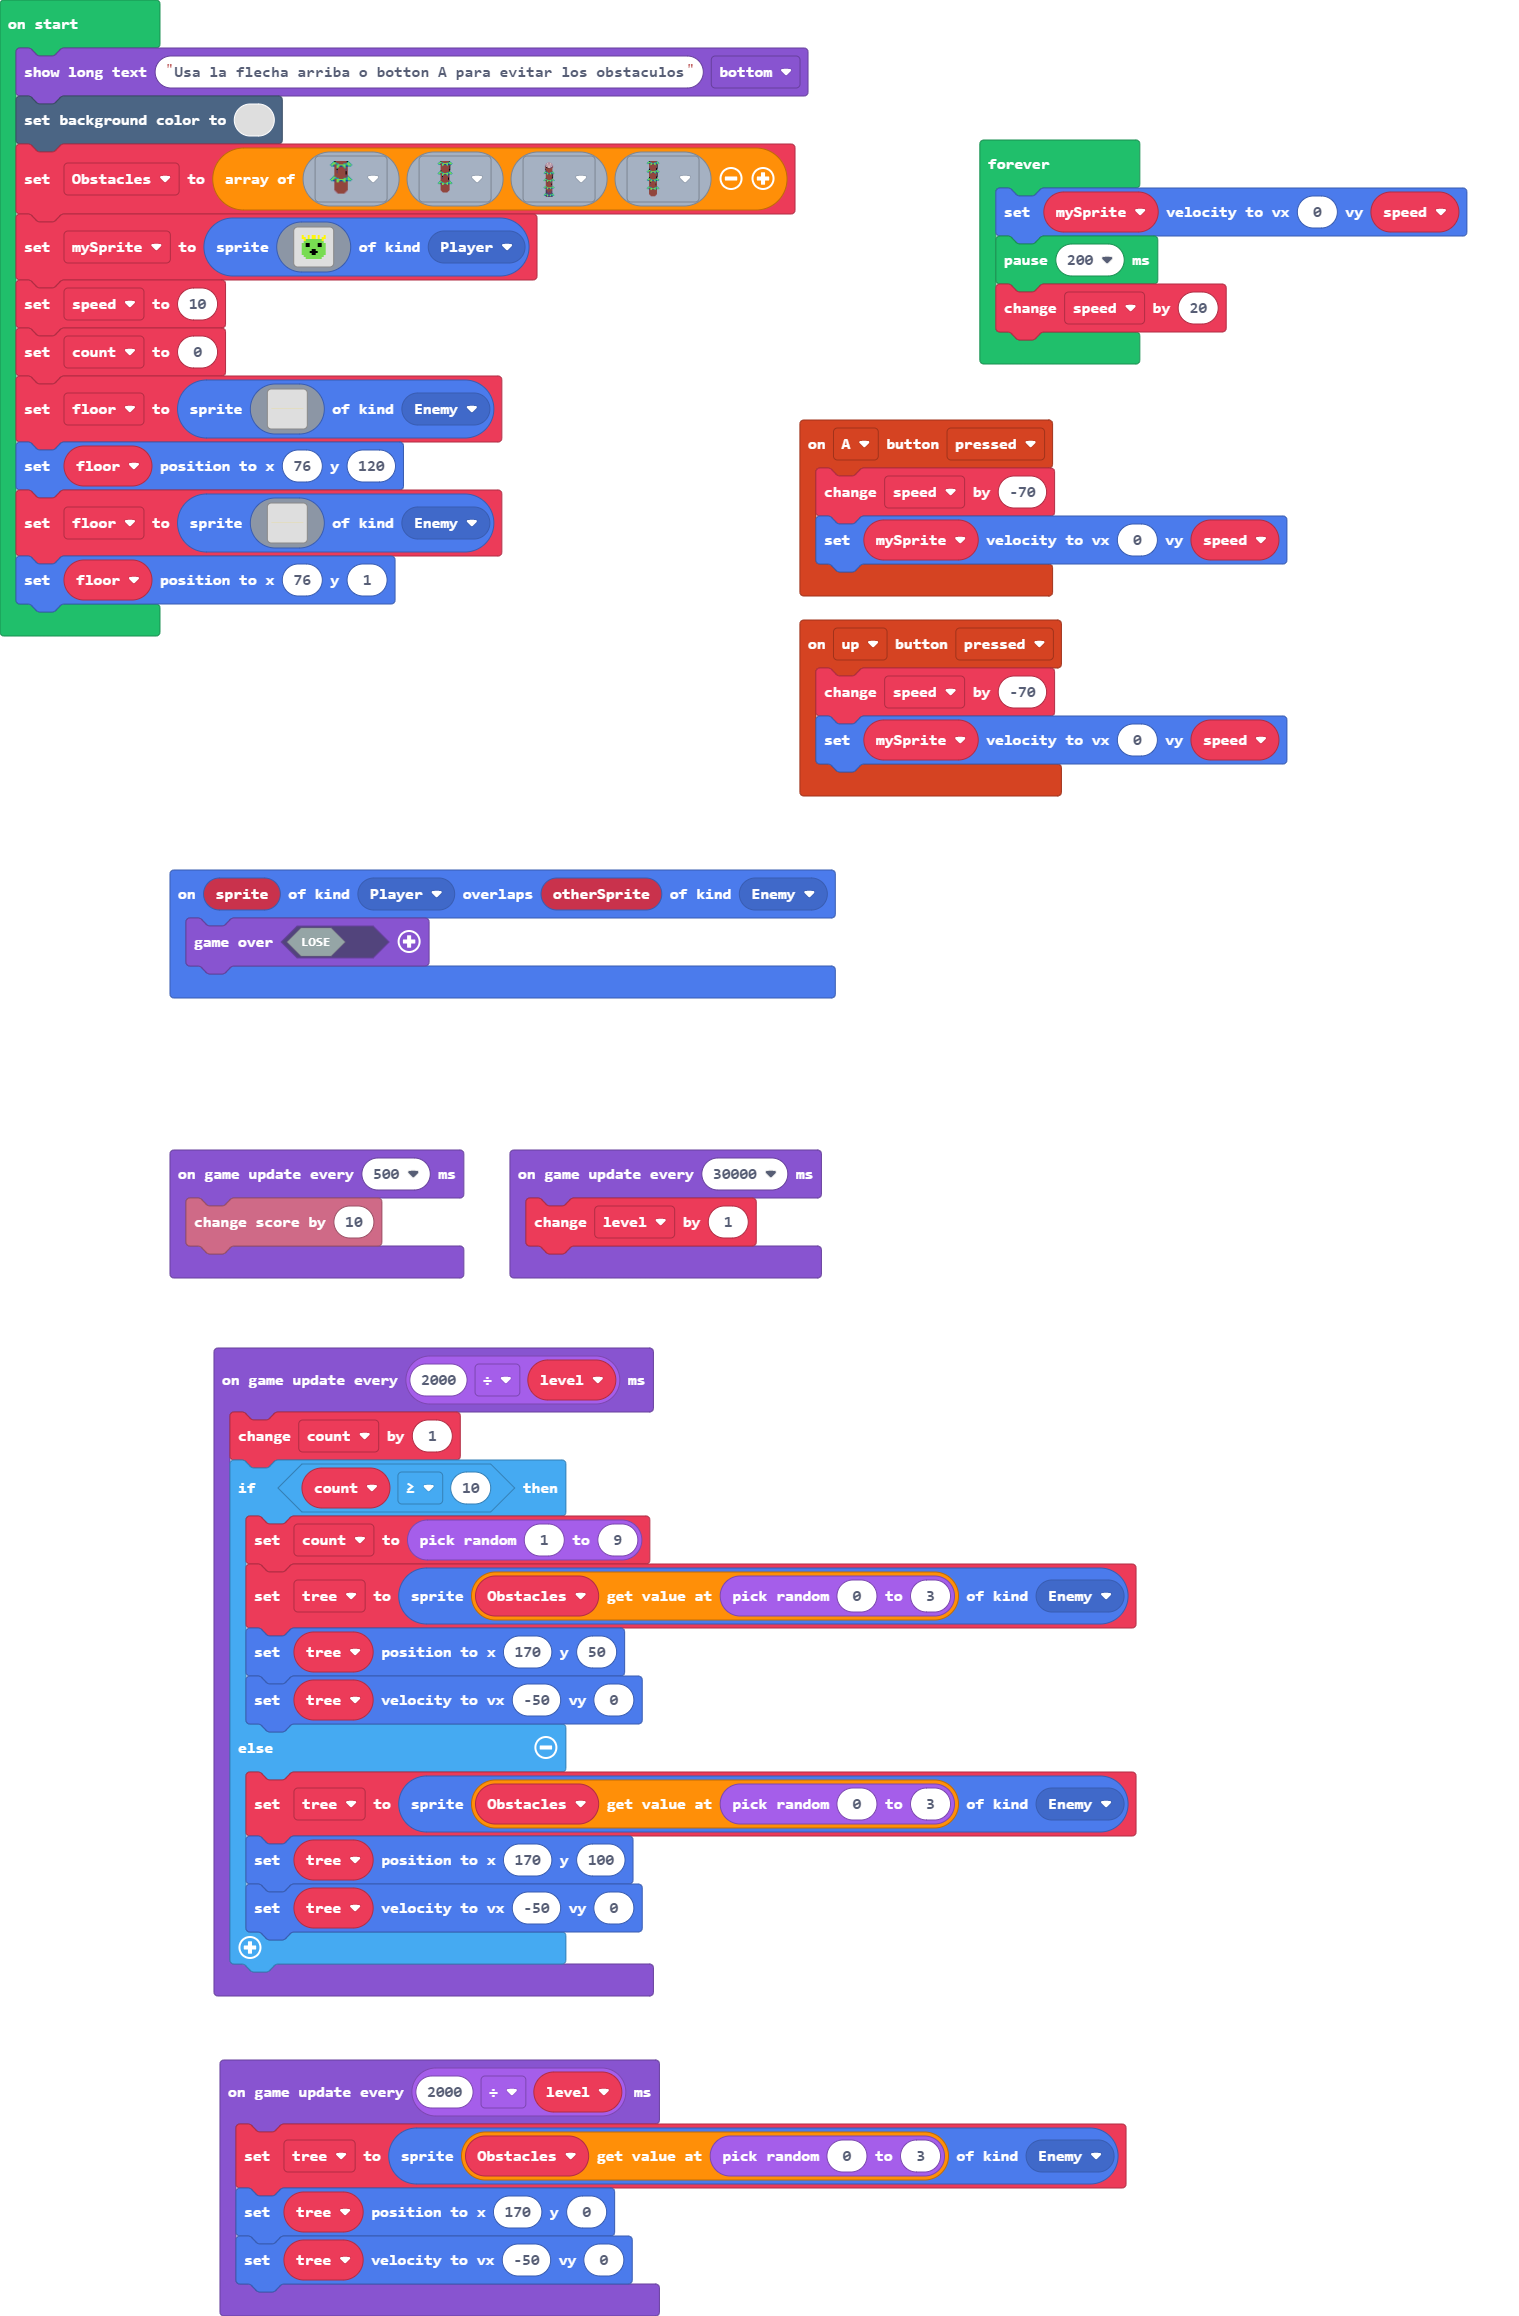
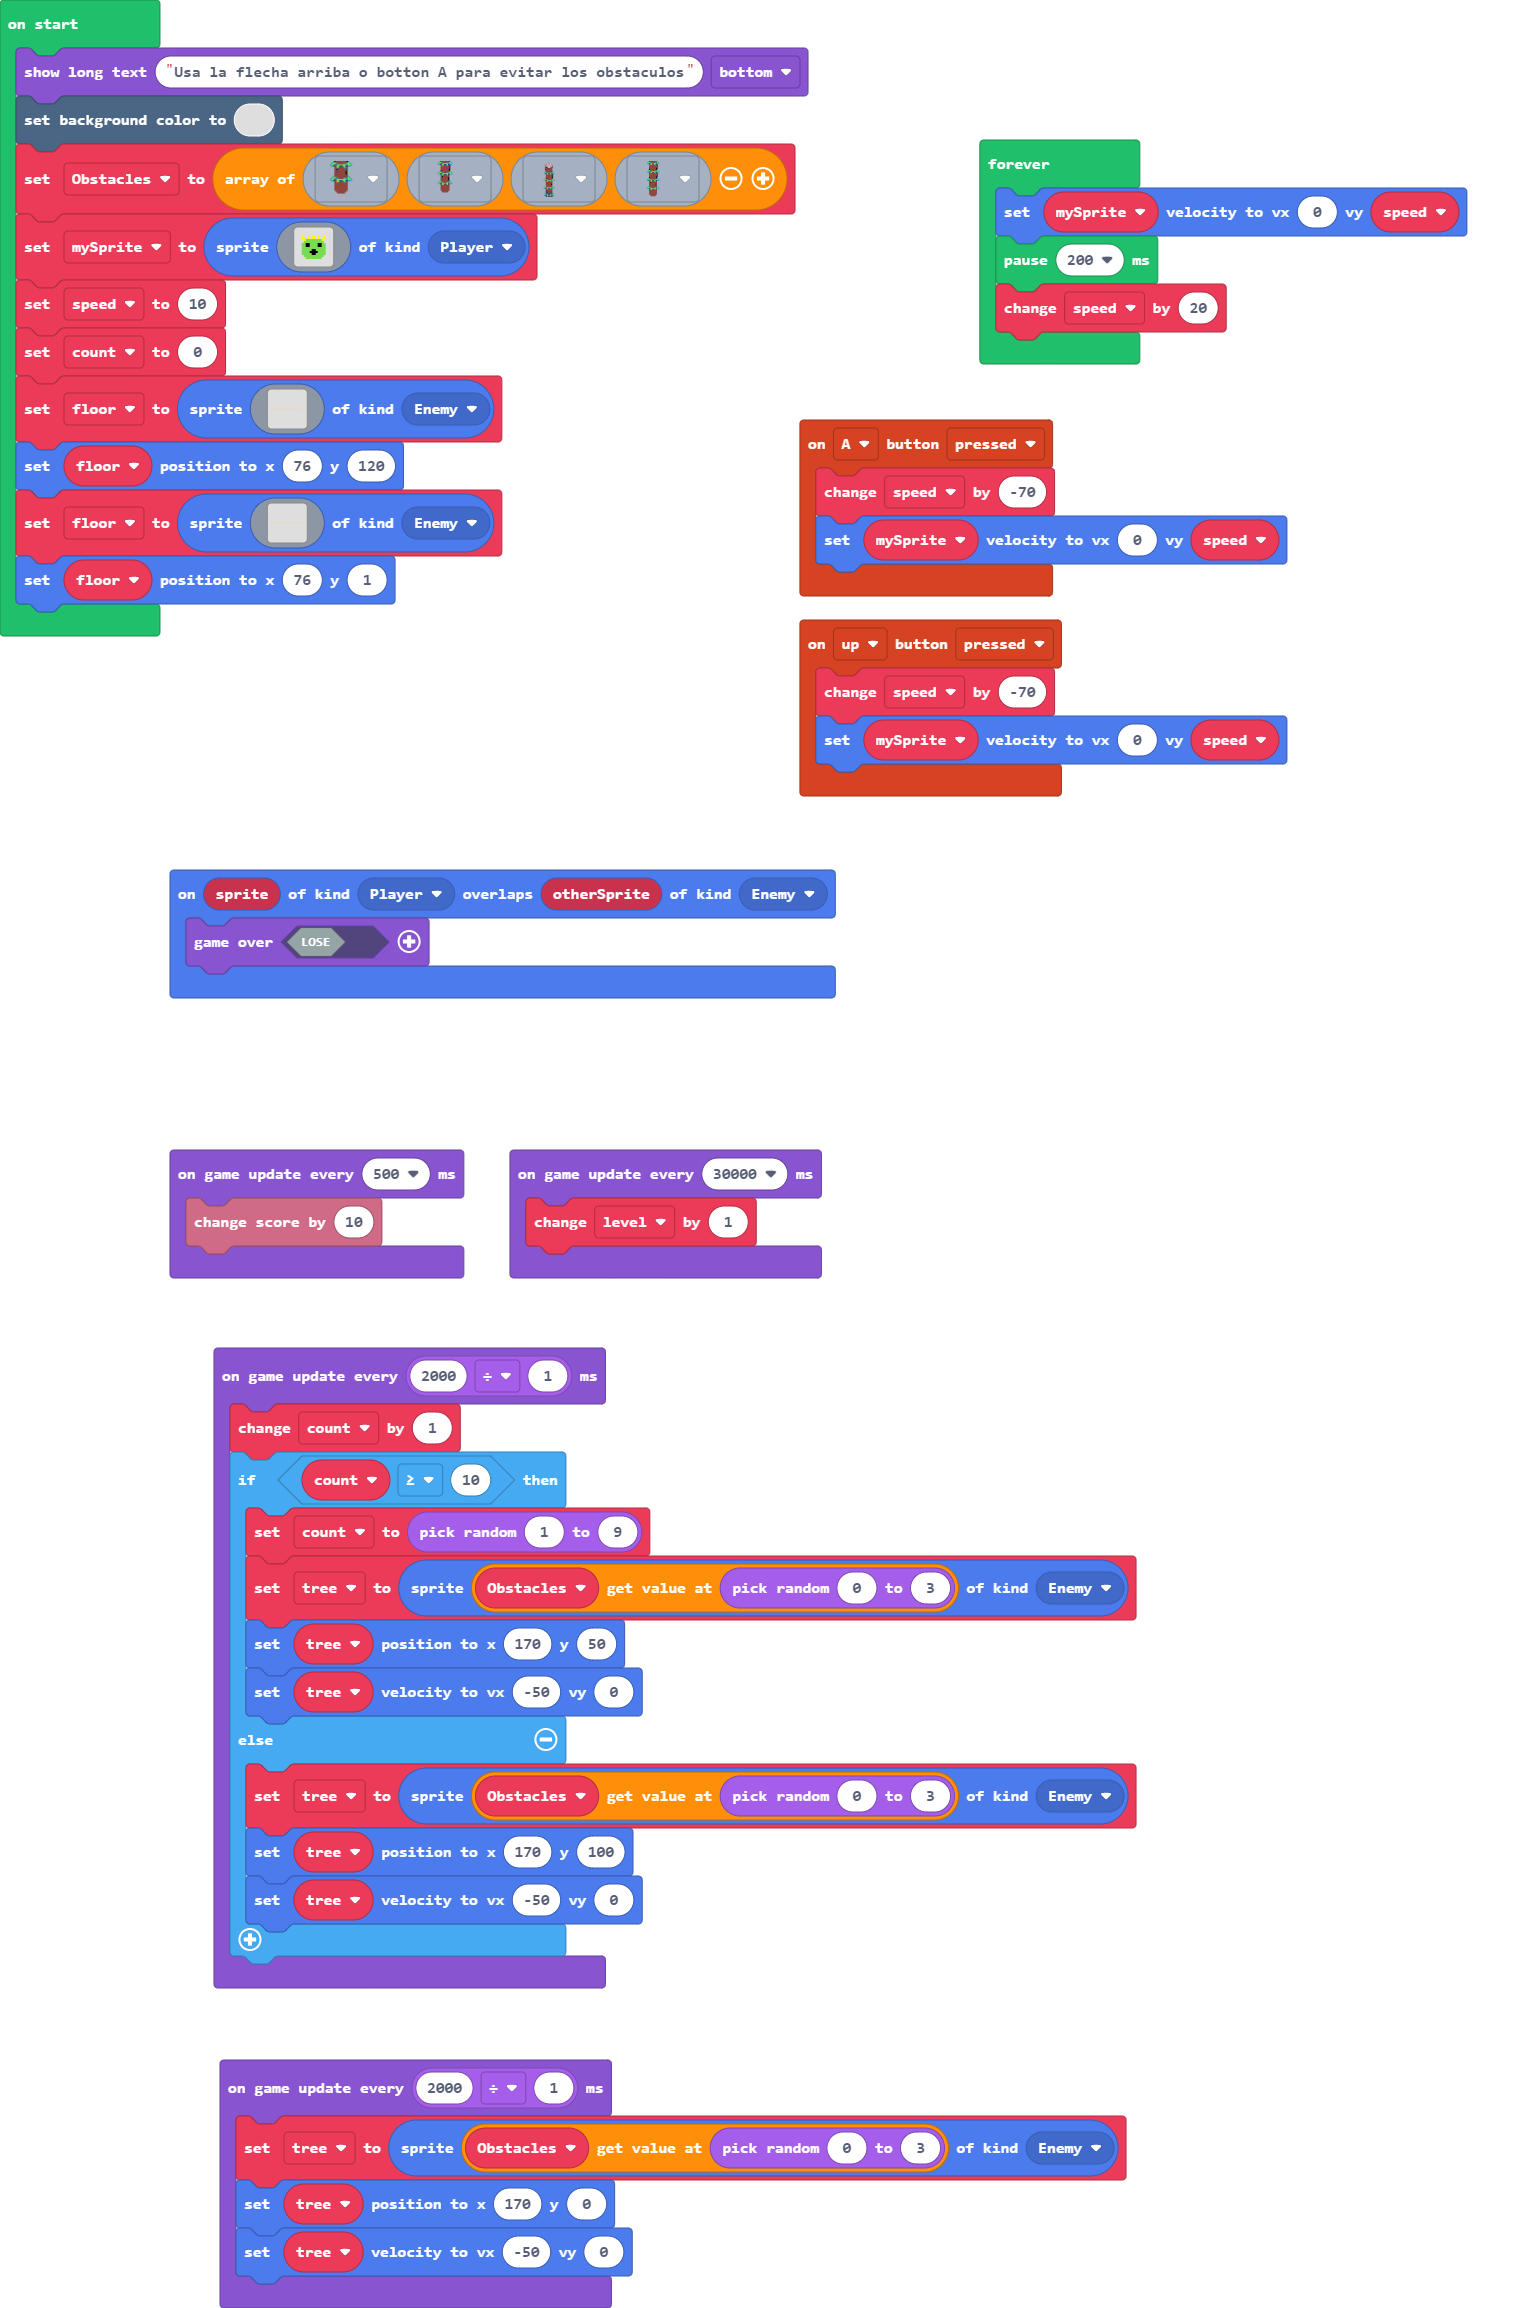
Update main.blocks, main.ts

diff --git a/main.ts b/main.ts
@@ -9,8 +9,8 @@ controller.A.onEvent(ControllerButtonEvent.Pressed, function () {
 sprites.onOverlap(SpriteKind.Player, SpriteKind.Enemy, function (sprite, otherSprite) {
     game.over(false)
 })
-let tree: Sprite = null
 let level = 0
+let tree: Sprite = null
 let speed = 0
 let mySprite: Sprite = null
 game.showLongText("Usa la flecha arriba o botton A para evitar los obstaculos", DialogLayout.Bottom)
@@ -46,7 +46,7 @@ floor = sprites.create(img`
     55555555555555555555555555555555555555555555555555555555555555555555555555555555555555555555555555555555555555555555555555555555555555555555555555555555555555555555555555555555555555555555555555555555
     `, SpriteKind.Enemy)
 floor.setPosition(76, 1)
-game.onUpdateInterval(2000 / level, function () {
+game.onUpdateInterval(2000 / 1, function () {
     count += 1
     if (count >= 10) {
         count = randint(1, 9)
@@ -59,7 +59,7 @@ game.onUpdateInterval(2000 / level, function () {
         tree.setVelocity(-50, 0)
     }
 })
-game.onUpdateInterval(2000 / level, function () {
+game.onUpdateInterval(2000 / 1, function () {
     tree = sprites.create(Obstacles[randint(0, 3)], SpriteKind.Enemy)
     tree.setPosition(170, 0)
     tree.setVelocity(-50, 0)
